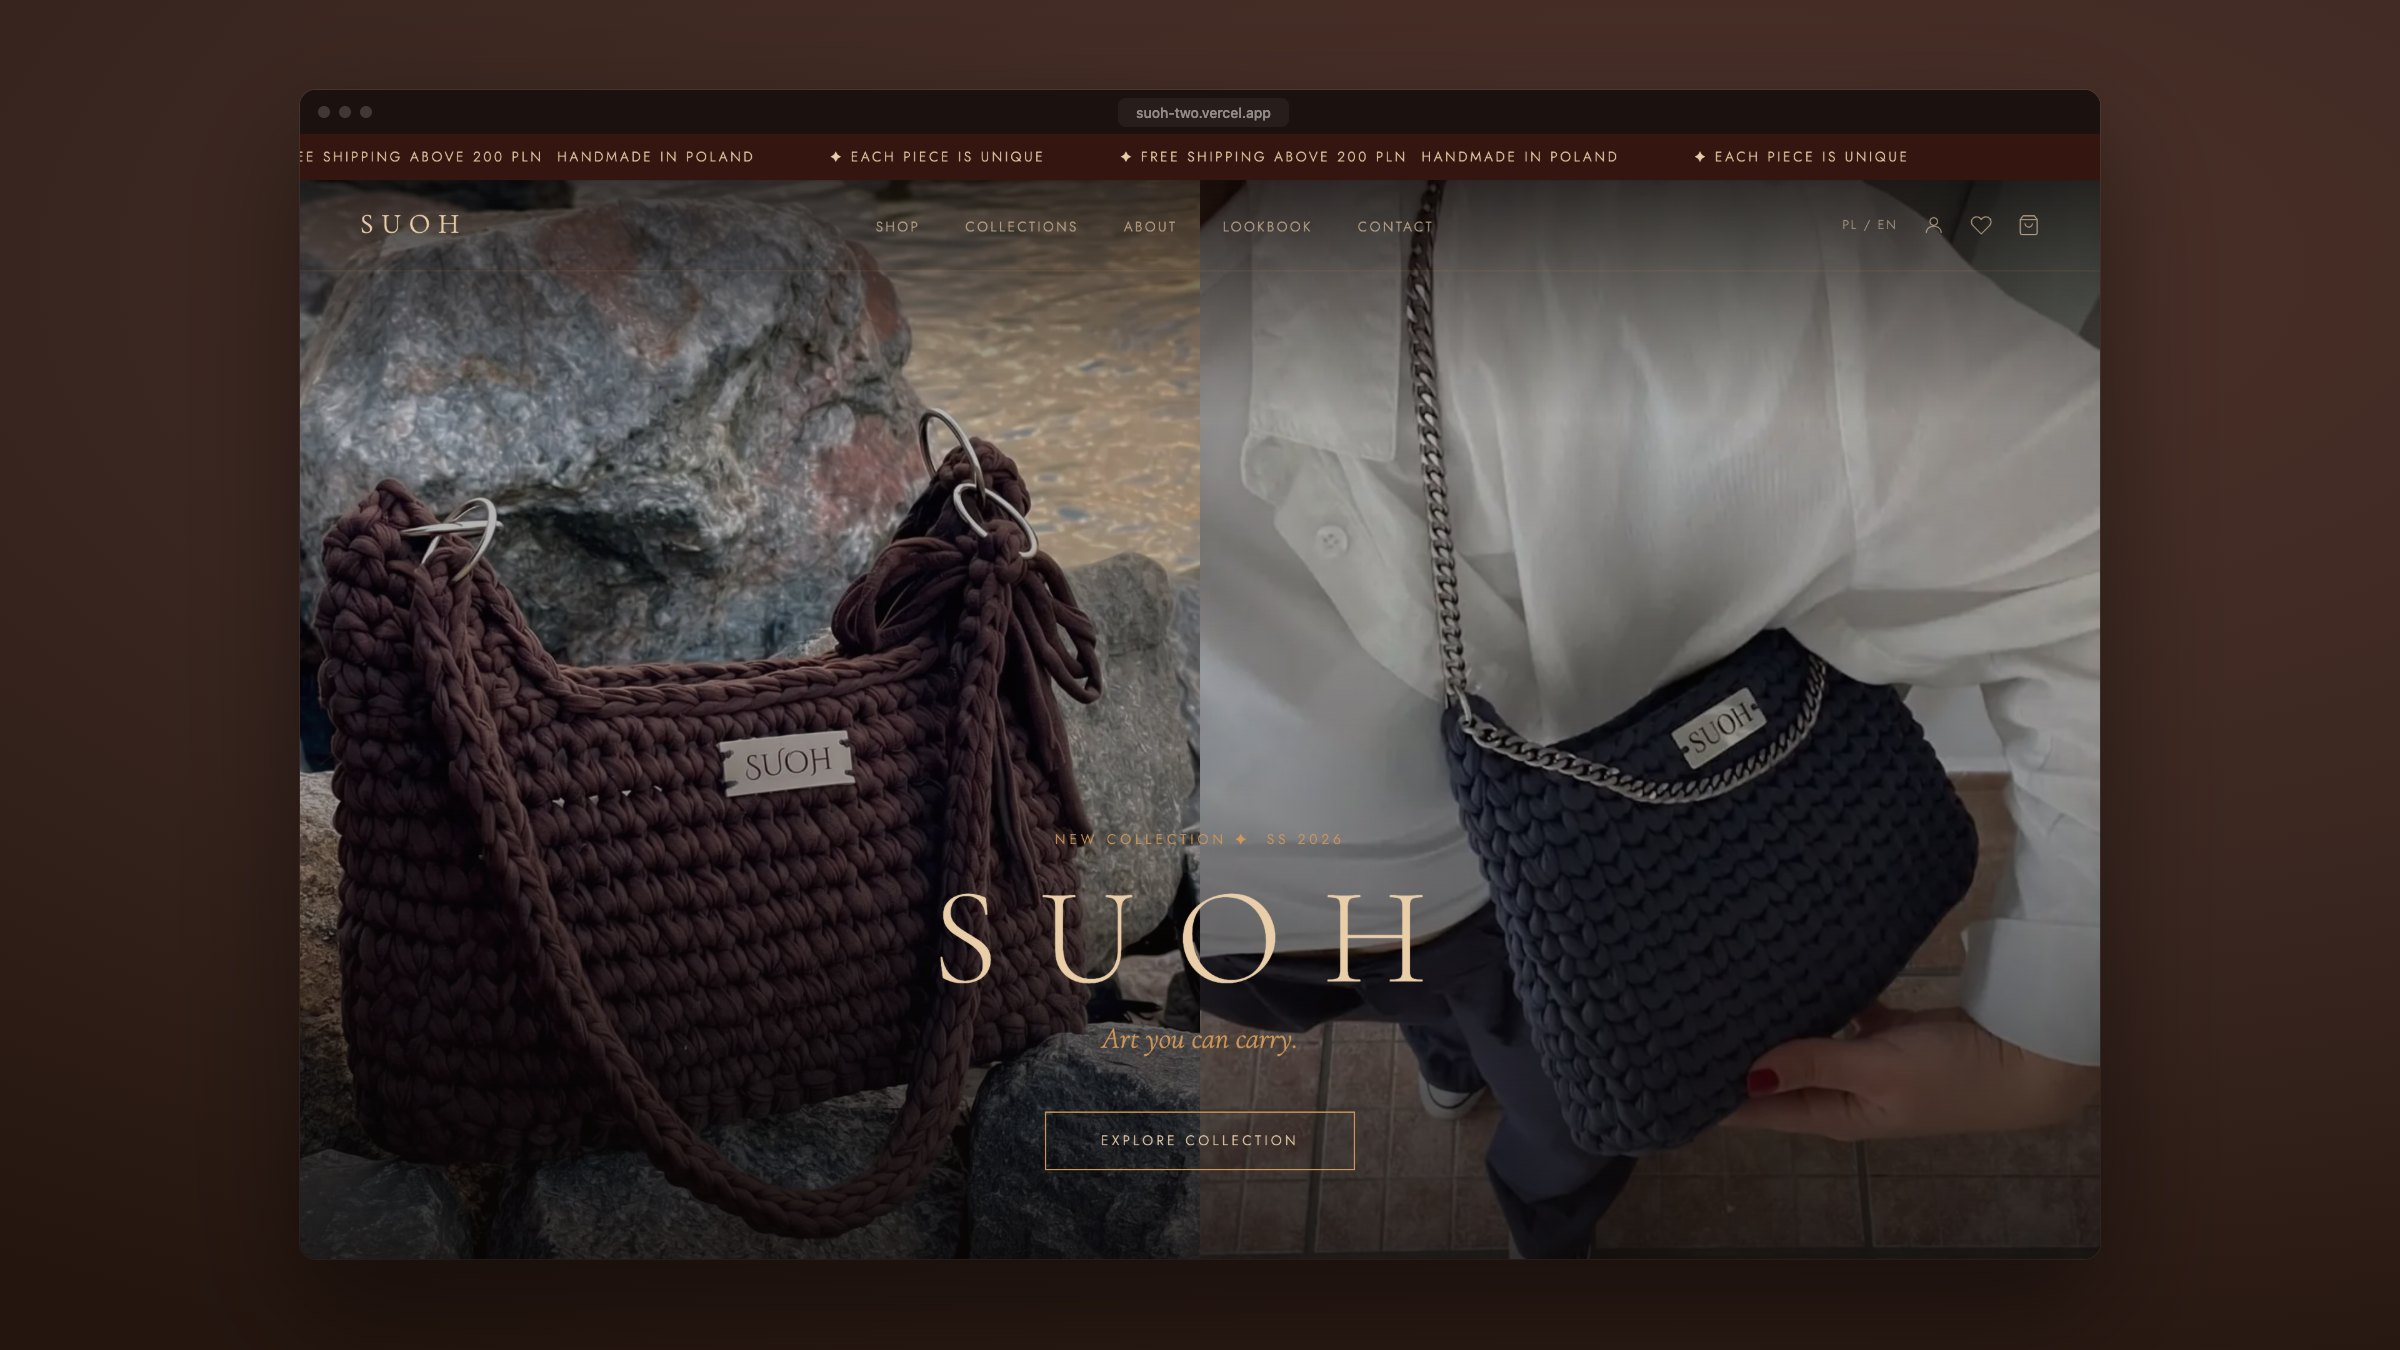
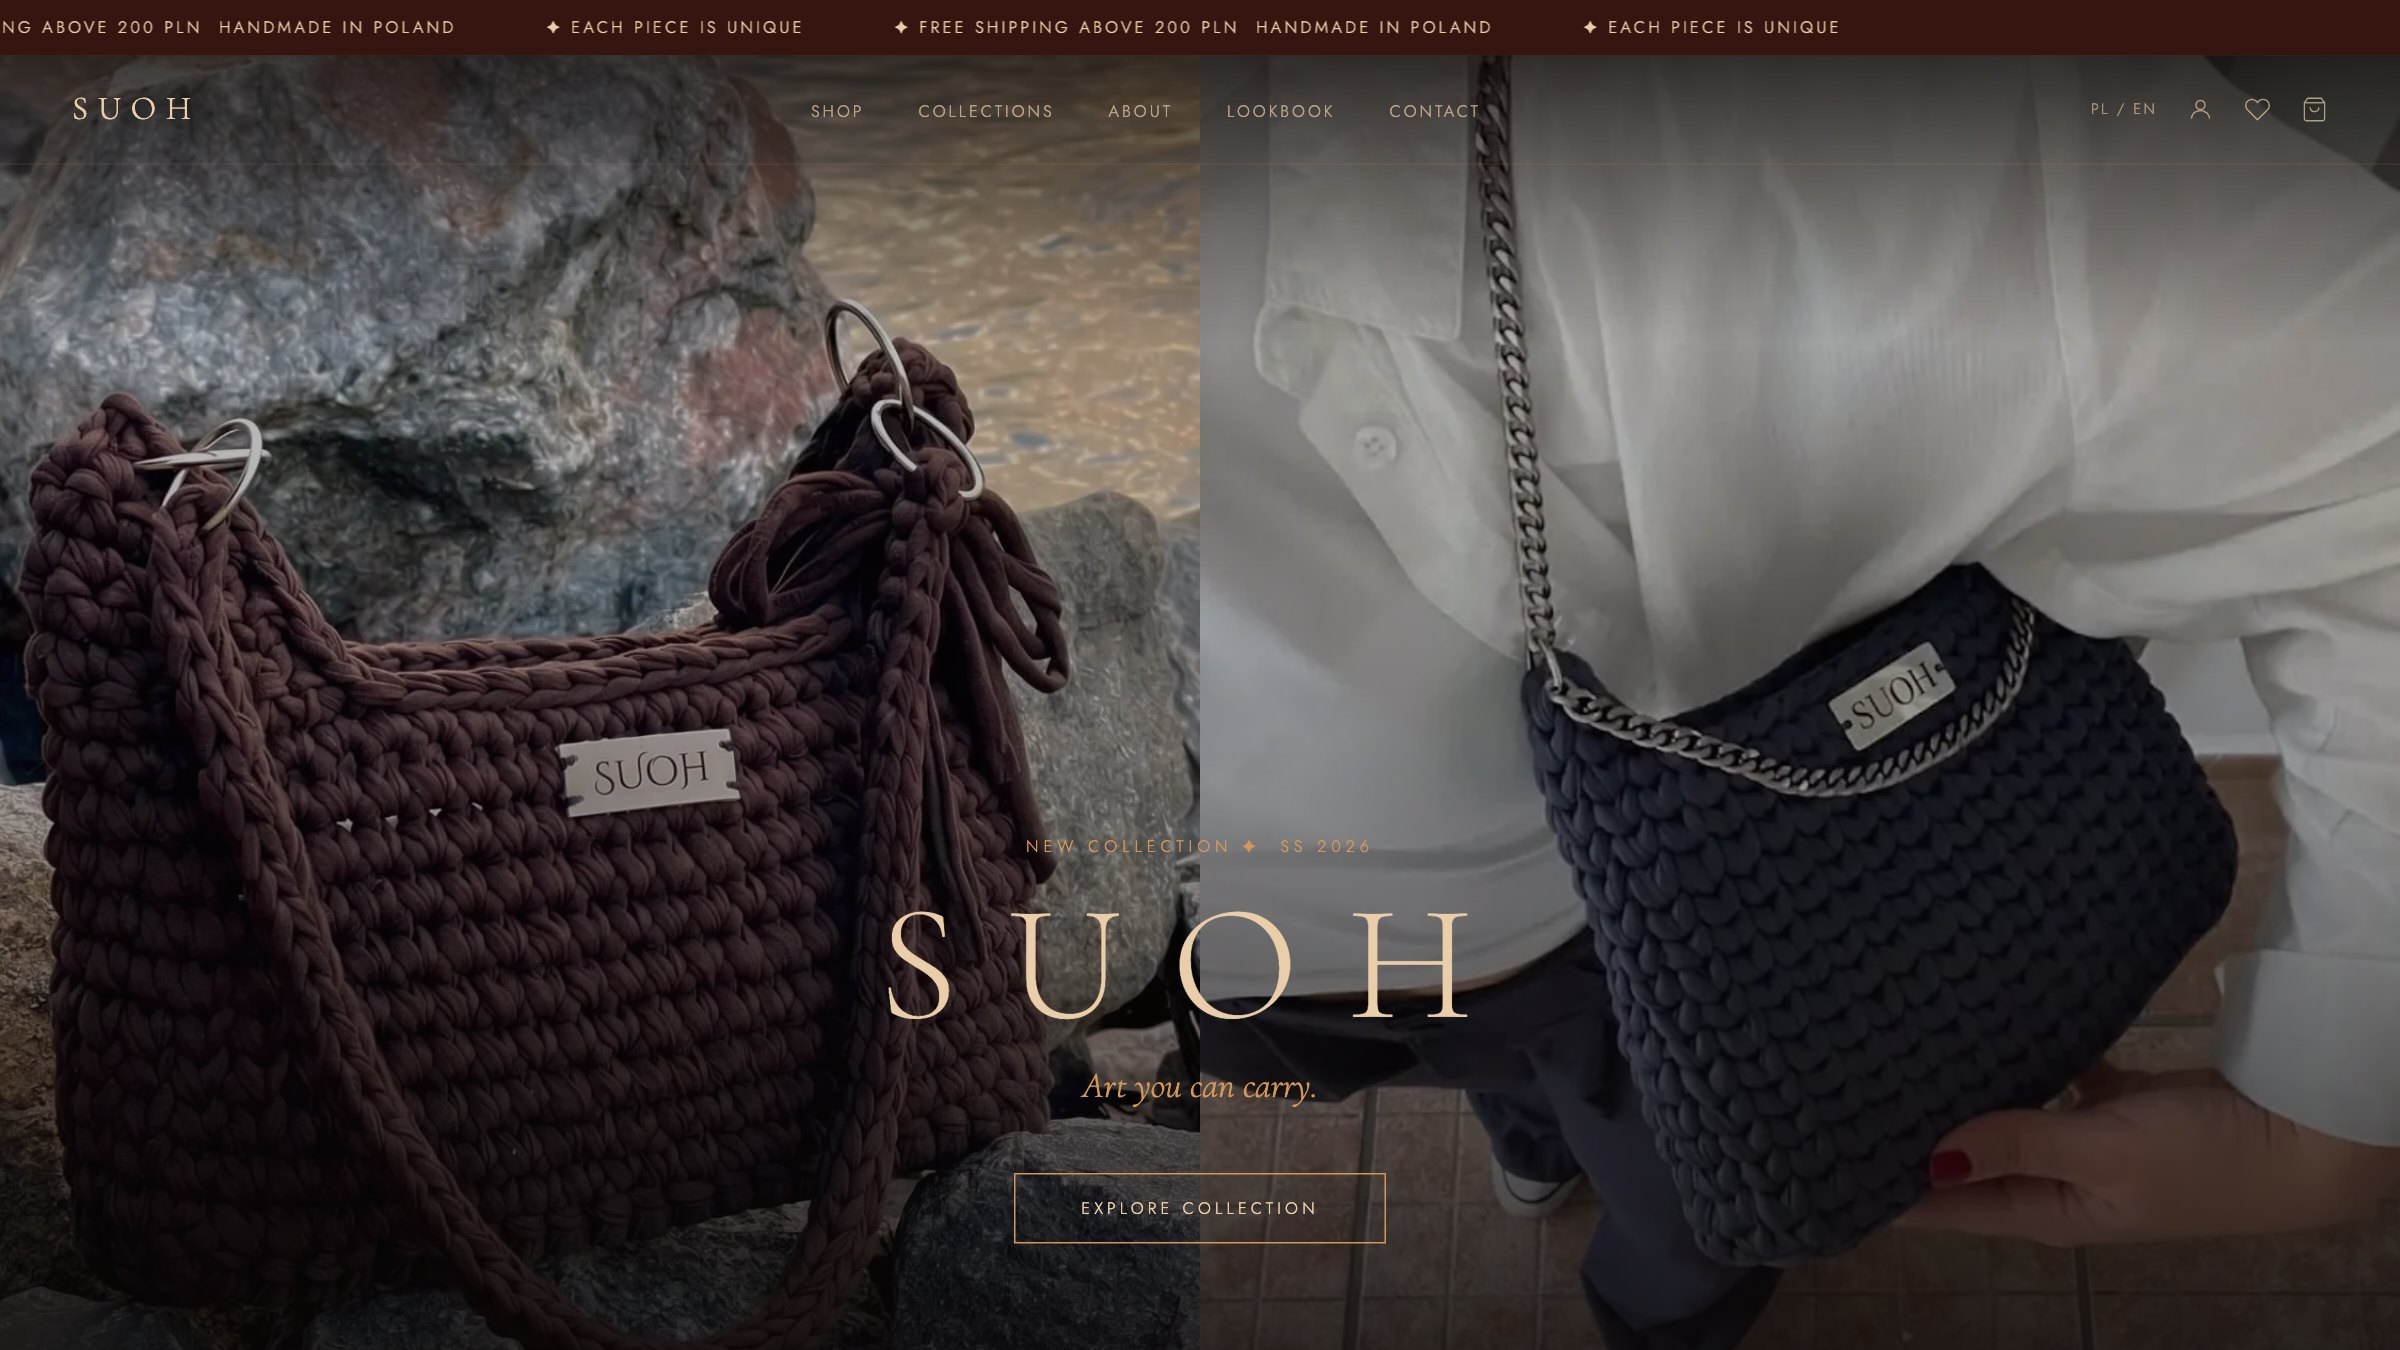
Show the SUOH cover as the shop's first screen, full bleed

diff --git a/src/cases.js b/src/cases.js
@@ -269,13 +269,13 @@ const RP = {
 /* SUOH, the shop for crochet bags (github.com/joanise-ux/suoh). Shots are
    framed screenshots of suoh-two.vercel.app (public/assets/cases/su); the
    cart and checkout in step 3 come from the project's own screenshots. The
-   cover is the first screen in a browser window. */
+   cover is the first screen itself, full bleed. */
 const SU_DIR = "/assets/cases/su";
 const suPic = (file, alt) => ({ src: `${SU_DIR}/${file}`, alt });
 
 const SU = {
   pl: {
-    hero: suPic("su-hero.jpg", "Pierwszy ekran sklepu SUOH w oknie przeglądarki: brązowa i granatowa torebka z szydełka"),
+    hero: suPic("su-hero.jpg", "Pierwszy ekran sklepu SUOH: brązowa i granatowa torebka z szydełka"),
     meta: [
       ["Klient", "SUOH, Wrocław"],
       ["Rok", "2026"],
@@ -339,7 +339,7 @@ const SU = {
     },
   },
   en: {
-    hero: suPic("su-hero.jpg", "The SUOH shop's first screen in a browser window: a brown and a navy crochet bag"),
+    hero: suPic("su-hero.jpg", "The SUOH shop's first screen: a brown and a navy crochet bag"),
     meta: [
       ["Client", "SUOH, Wrocław"],
       ["Year", "2026"],
